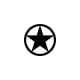
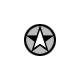
Fixtures with facing will now be rotated.

Changed region(s): [[0.325, 0.325, 0.675, 0.675]]

diff --git a/js/orb/client/view/GameMap.js b/js/orb/client/view/GameMap.js
@@ -14,7 +14,8 @@
         {
             locArrToId, getVisibilityPath, cellOffsetsByDistance,
             getCompositionTemplate,
-            facing:{NORTH, SOUTH, EAST, WEST, SELF, getOppositeDirection}
+            facing:{NORTH, SOUTH, EAST, WEST, SELF, getOppositeDirection},
+            fixture:{STATE_FACING}
         } = urob,
         
         {
@@ -257,11 +258,12 @@
         }),
         
         FixtureView = new JSClass('FixtureView', View, {
-            include:[ImageSupport],
+            include:[ImageSupport, TransformSupport],
             
             initNode: function(parent, attrs) {
                 attrs.width = attrs.height = cellSize;
                 attrs.imageSize = 'contain';
+                attrs.transformOrigin = 'center';
                 
                 this.callSuper(parent, attrs);
             },
@@ -274,6 +276,15 @@
                 if (fixture) {
                     this.setVisible(true);
                     this.setImageUrl(fixture.getTemplateUrl(character) ?? null);
+                    
+                    let angle;
+                    switch (fixture.getStateByName(STATE_FACING)) {
+                        case SOUTH: angle = 180; break;
+                        case EAST: angle = 90; break;
+                        case WEST: angle = 270; break;
+                        case NORTH: default: angle = 0; break;
+                    }
+                    this.setRotation(angle);
                 } else {
                     this.setImageUrl(null);
                 }

diff --git a/js/orb/common/urob/fixture.js b/js/orb/common/urob/fixture.js
@@ -524,6 +524,8 @@
         });
     
     pkg.fixture = {
+        STATE_FACING:STATE_FACING,
+        
         CommonFixtureModel: new JSClass('CommonFixtureModel', Eventable, {
             include:[ValueAffectorMixin],
             
